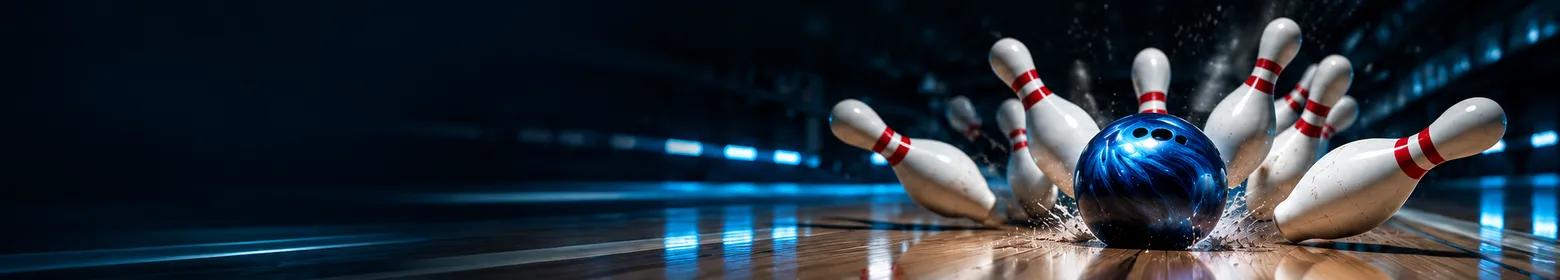
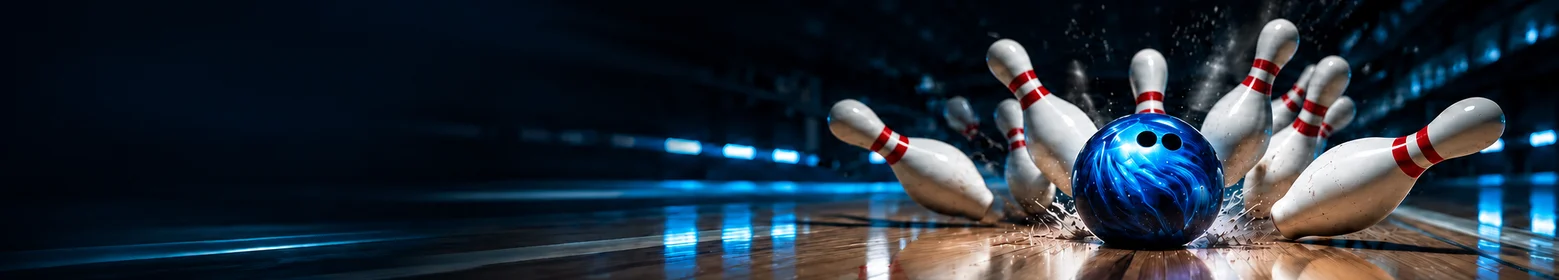
Align matchup cards and use a two-hole bowling ball header (#119)

diff --git a/src/sass/team-match-night.scss b/src/sass/team-match-night.scss
@@ -39,7 +39,7 @@
 
   button:focus-visible, a:focus-visible, summary:focus-visible { outline: 3px solid var(--bls-accent, #2997ff); outline-offset: 4px; }
 
-  .bls-match-night-grid { display: grid; grid-template-columns: minmax(0, 1.6fr) minmax(0, 1fr); align-items: start; gap: 1rem; }
+  .bls-match-night-grid { display: grid; grid-template-columns: minmax(0, 1.6fr) minmax(0, 1fr); align-items: stretch; gap: 1rem; }
 
   .bls-match-night-fixture,
   .bls-match-night-result,
@@ -66,7 +66,7 @@
     > span { color: #afc8e8; font-size: .7rem; }
   }
 
-  .bls-match-night-date { color: #d9e5f5; font-size: .85rem; margin: .5rem 0 .65rem; }
+  .bls-match-night-date { color: #d9e5f5; font-size: .85rem; margin: .4rem 0 .5rem; }
 
   .bls-match-night-pairing { display: grid; grid-template-columns: minmax(0, 1fr) fit-content(40%); gap: .75rem; align-items: center; }
   .bls-match-night-opponent {
@@ -83,7 +83,7 @@
     flex-direction: column;
     justify-content: center;
     min-width: 0;
-    padding: .55rem .75rem;
+    padding: .4rem .65rem;
     border-radius: 12px;
     text-align: center;
     background: var(--night-accent);
@@ -100,7 +100,7 @@
     align-items: center;
     justify-content: space-between;
     gap: 0 .75rem;
-    margin-top: .5rem;
+    margin-top: .25rem;
 
     a { display: inline-flex; align-items: center; gap: .4rem; min-height: 44px; color: var(--night-accent); font-size: .75rem; text-underline-offset: .25rem; }
   }
@@ -108,13 +108,16 @@
   .bls-match-night-note { color: #afc8e8; font-size: .7rem; margin: 0; }
 
   .bls-match-night-result {
+    display: flex;
+    flex-direction: column;
     h3 { margin: 0 0 .65rem; font-size: .7rem; font-weight: 750; text-transform: uppercase; letter-spacing: .1em; color: var(--night-accent); }
   }
 
   .bls-match-night-result-date { font-size: .7rem; color: var(--night-muted); margin: 0 0 .3rem; }
   .bls-match-night-result-opponent { font-size: .85rem; margin: 0; overflow-wrap: anywhere; }
   .bls-match-night-points {
-    margin: .45rem 0 0;
+    margin: auto 0 0;
+    padding-top: .45rem;
     strong { display: block; font-size: clamp(2.3rem, 5vw, 3.6rem); line-height: 1.15; font-weight: 800; letter-spacing: -.05em; }
     strong span { color: var(--night-muted); font-weight: 400; }
     > span { display: block; color: var(--night-muted); font-size: .65rem; }
@@ -131,7 +134,7 @@
   }
 
   .bls-match-night-standing {
-    display: grid; grid-template-columns: repeat(4, minmax(0, 1fr)); gap: 1rem; margin: 1.2rem 0; padding: 1.2rem 0;
+    display: grid; grid-template-columns: repeat(4, minmax(0, 1fr)); gap: 1rem; margin: 1rem 0; padding: 1.2rem 0;
     border-radius: 12px;
     > div { min-width: 0; padding-inline: 1rem; border-inline-start: 1px solid var(--night-border); }
     > div:first-child { border: 0; }
